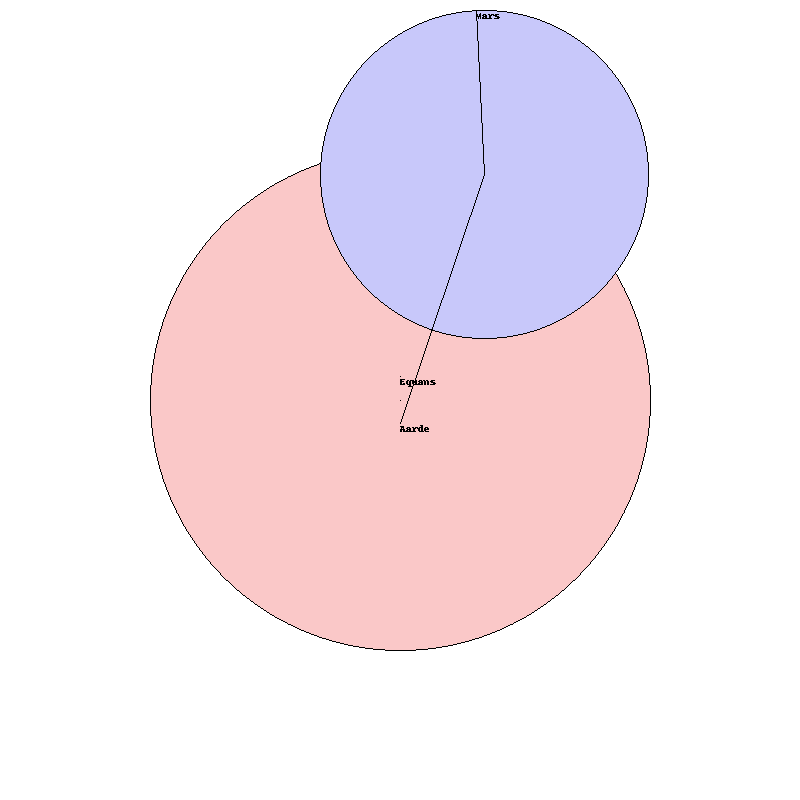
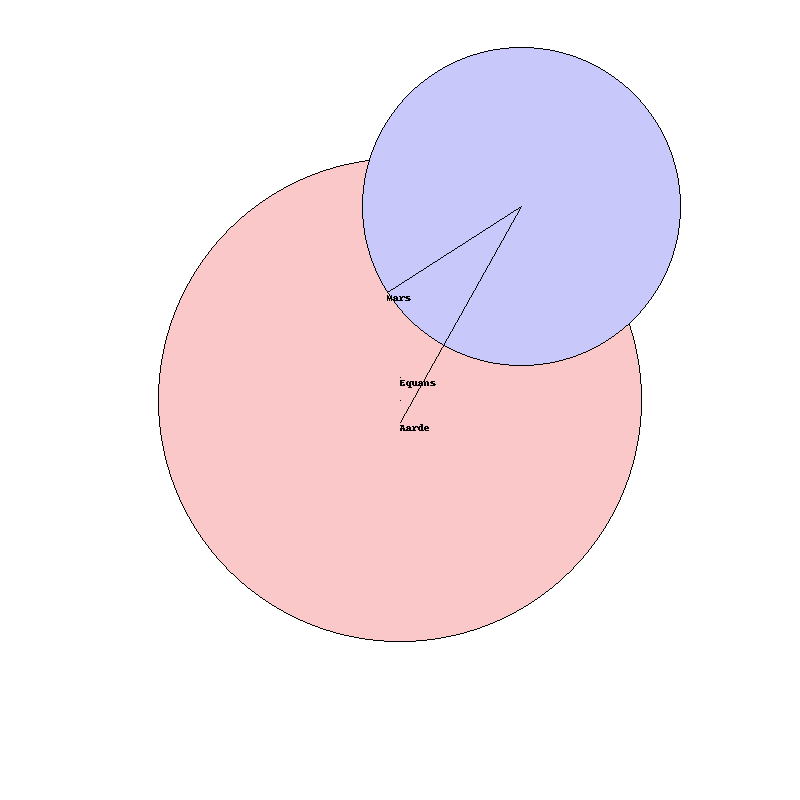
cirkels getekend om te zien hoe de baan opgebouwd wordt

diff --git a/cirkels.py b/cirkels.py
@@ -1,10 +1,6 @@
 import sys, math, time, csv
 from PIL import Image, ImageDraw, ImageFont
 from datetime import datetime, timezone
-# from skyfield import almanac
-# from skyfield.api import load, wgs84, N, E, W, S
-# from skyfield.api import position_of_radec, load_constellation_map
-# from skyfield.framelib import ecliptic_frame
 
 # Verschillende konstanten voor jaar en maand
 tropischjaar  = 365.2421896 # Kalenderjaar. Geen constante, dit is de 2000.0 waarde
@@ -19,20 +15,21 @@ lengte020 = 4.9 # Graden oosterlengte
 tweepi    = 6.28
 
 # Lees baanelementen uit csv
-planeet = {}
-ip = 0
+planeet = []
+element = {}
 with open('orbits.csv', 'r') as orbitfile:
     csv_reader = csv.DictReader(orbitfile)
     for orbit in csv_reader:
-       planeet[ip] = {}
-       planeet[ip]['naam'] = orbit['naam'].strip()
-       planeet[ip]['a'] = float(orbit['a'])
-       planeet[ip]['e'] = float(orbit['e'])
-       planeet[ip]['T'] = float(orbit['T'])
-       planeet[ip]['lengteperi'] = float(orbit['l_peri'])
-       planeet[ip]['epochperi']  = float(orbit['t_peri'])
-       ip += 1
-print(ip,' planeten in orbit file')
+        naam = orbit['naam'].strip()
+        planeet.append(naam)
+        element[naam] = {}
+        element[naam]['a'] = float(orbit['a'])
+        element[naam]['b'] = float(orbit['b'])
+        element[naam]['e'] = float(orbit['e'])
+        element[naam]['T'] = float(orbit['T'])
+        element[naam]['lengteperi'] = float(orbit['l_peri'])
+        element[naam]['epochperi']  = float(orbit['t_peri'])
+
        
 # Epicykel geeft de ware anomalie, de hoek van een planeet ten opzichte van het
 # lentepunt gezien vanuit de Aarde, berekend met Ptolemaeaus epicykels.
@@ -40,8 +37,10 @@ print(ip,' planeten in orbit file')
 # De deferent is het middelpunt van de cirkelbaan
 # De planeet beweegt met constante hoeksnelheid rond de equans
 # Aarde, deferent en equans liggen op 1 lijn.
-def epicykel(tijd,omlooptijd,straal,excentriciteit,lengteperiapsis,tijdperiapsis):
-    schaal = 250 / straal  
+def epicykel(tijd,omlooptijd,a,b,excentriciteit,lengteperiapsis,tijdperiapsis,epicykelstraal,epicykellengte):
+    straal = (a+b)/2.0
+    # straalaarde = (149476014.0805783 + 149454602.05227306) / 2.0
+    schaal = 400 / (straal+epicykelstraal) 
     deferent = straal * excentriciteit
     equans = 2 * deferent
     # Teken de deferent, equans en middelpunt
@@ -61,18 +60,18 @@ def epicykel(tijd,omlooptijd,straal,excentriciteit,lengteperiapsis,tijdperiapsis
     print ('   x',defx)
     print ('   y',defy)
     # De epicykel, de cirkel op de cirkel
-    epianomalie = (tijd)/siderischjaar*tweepi % tweepi
-    print ('   anomalie van de epicykel',epianomalie/tweepi*180.0)
-    straalaarde = (149476014.0805783 + 149454602.05227306) / 2.0
-    planeetx = defx + straalaarde * math.cos(epianomalie)
-    planeety = defy + straalaarde * math.sin(epianomalie)
+    # epianomalie = (tijd)/siderischjaar*tweepi % tweepi
+    # print ('   anomalie van de epicykel',epianomalie/tweepi*180.0)
+    # straalaarde = (149476014.0805783 + 149454602.05227306) / 2.0
+    planeetx = defx + epicykelstraal * math.cos(epicykellengte/360.0*tweepi)
+    planeety = defy + epicykelstraal * math.sin(epicykellengte/360.0*tweepi)
     # Hoek vanuit de Aarde
     wareanomalie = math.atan2(defy, defx) / tweepi * 180.0
     print ('   ware anomalie',wareanomalie)
     ecliptischelengte = wareanomalie + lengteperiapsis
     print ('   ecliptische lengte',ecliptischelengte)
-    draw.ellipse([(middenx+(defx-straalaarde)*schaal,middeny+(defy-straalaarde)*schaal),
-                  (middenx+(defx+straalaarde)*schaal,middeny+(defy+straalaarde)*schaal)],
+    draw.ellipse([(middenx+(defx-epicykelstraal)*schaal,middeny+(defy-epicykelstraal)*schaal),
+                  (middenx+(defx+epicykelstraal)*schaal,middeny+(defy+epicykelstraal)*schaal)],
                    outline=(0,0,0),fill=(200,200,250),width=1)
     draw.line([(middenx,middeny+(deferent*schaal)),
                (middenx+defx*schaal,middeny+defy*schaal)],fill=(0,0,0),width=1)
@@ -82,12 +81,29 @@ def epicykel(tijd,omlooptijd,straal,excentriciteit,lengteperiapsis,tijdperiapsis
     draw.text((middenx+planeetx*schaal,middeny+planeety*schaal),naam,anchor='lm',fill=(0,0,0))
     return ecliptischelengte
 
+# De Zon en de Maan beschijven een cirkelbaan om de Aarde
+# De equans wordt hier buiten beschouwing gelaten
+def cirkelbaan(tijd,omlooptijd,a,b,excentriciteit,lengteperiapsis,tijdperiapsis):
+    straal = (a+b)/2.0
+    deferent = straal * excentriciteit
+    # Anomalie gezien van de equans is een lineaire functie van de tijd
+    equansanomalie = (tijd-tijdperiapsis)/omlooptijd*tweepi
+    equansx = straal*math.cos(equansanomalie)-deferent
+    equansy = straal*math.sin(equansanomalie)
+    # Hoek vanuit de Aarde
+    wareanomalie = math.atan2(equansy, equansx)/tweepi*360.0
+    # wareanomalie = ((tijd-tijdperiapsis)/omlooptijd)*360.0
+    print('   ware anmomalie',wareanomalie)
+    ecliptischelengte = (wareanomalie+lengteperiapsis )%360
+    print('   ecliptische lengte',ecliptischelengte)
+    return ecliptischelengte
+
 # Bepaal lokale tijd en lokale sterrentijd, om zomertijd ellende te voorkomen alles vanaf gm
 nu = time.time() / 86400  # nu, in dagen
-juliaansedag = nu + 2440587.45833 # dagen, juliaanse datum
+jd = nu + 2440587.45833 # dagen, juliaanse datum
 tijd  = nu % 1 # Fractie van de dag
 print('Epoch in dagen',nu)
-print('JD', juliaansedag)
+print('JD', jd)
 print('GMT          ', int(24*tijd), int((24*60*tijd)%60), (24*3600*tijd)%60)
 
 # Op 1/1/1970 was GMST 6 40 55 = 6,681944444
@@ -101,34 +117,39 @@ print('Lokale zonnetijd',int(24*lokaletijd), int((24*60*lokaletijd)%60), (24*360
 LMST = ( ( nu + lengte020/360.0 ) * (siderischjaar+1)/siderischjaar + epochsiderisch ) % 1
 print('Lokaal siderisch', int(24*LMST), int((24*60*LMST)%60), (24*3600*LMST)%60)
 
-# De straal van de baan van de Zon moet eigenlijk netjes uit de baanelementen gehaald worden
-straalaarde = (149476014.0805783 + 149454602.05227306) / 2.0
-# Bereken posities van de planeten en teken de sfeer in
-for ip in planeet:
+# Bereken de offset door de Aarde
+epilengte = cirkelbaan(jd,element['Zon']['T'],
+                        element['Zon']['a'],element['Zon']['b'],element['Zon']['e'],
+                        element['Zon']['epochperi'],element['Zon']['lengteperi'])
+epistraal = (element['Zon']['a']+element['Zon']['b'])/2.0
+# Bereken posities van de planeten
+for naam in planeet:
    # Begin met tekenen
    diagram = Image.new("RGB",(800,800), (255,255,255))
    middenx = diagram.width/2
    middeny = diagram.height - diagram.width/2
    draw = ImageDraw.Draw(diagram)
-
+   
    lengte = 0.0
-   # Teken de cirkel met planeet
-   naam = planeet[ip]['naam']
+   print (naam)
          
    if (naam == 'Zon'):
-       # lengte = cirkelbaan(nu,siderischjaar) + LMST*360.0
-       lengte = lokaletijd*360.0-180.0
-       print('Zon ecliptische lengte',lengte)
+       lengte = cirkelbaan(jd,element[naam]['T'],
+                           element[naam]['a'],element[naam]['b'],element[naam]['e'],
+                           element[naam]['lengteperi'],element[naam]['epochperi'])
+       w = 36
    elif (naam == 'Maan'):
-       # lengte = cirkelbaan(nu,synodischemaand) + LMST*360.0 - 180.0
-       print('Maan ecliptisce lengte',lengte)
+       lengte = cirkelbaan(jd,synodischemaand,
+                           element[naam]['a'],element[naam]['b'],element[naam]['e'],
+                           element[naam]['lengteperi'],element[naam]['epochperi'])
+       w = 36
    else:
-       print(naam)
-       lengte = epicykel(juliaansedag,
-                         planeet[ip]['T'],planeet[ip]['a'],
-                         planeet[ip]['e'],planeet[ip]['lengteperi'],
-                         planeet[ip]['epochperi']) + LMST*360.0
+       lengte = epicykel(jd,element[naam]['T'],
+                         element[naam]['a'],element[naam]['b'],element[naam]['e'],
+                         element[naam]['lengteperi'],element[naam]['epochperi'],
+                         epistraal,epilengte)
+       
        filenaam = naam+'.png'
        diagram.save(filenaam)
-       # diagram.show()
+
 

diff --git a/ptolemeus.py b/ptolemeus.py
@@ -129,8 +129,8 @@ def epicykel(tijd,omlooptijd,a,b,excentriciteit,lengteperiapsis,tijdperiapsis,ep
     equansx = straal*math.cos(equansanomalie)-deferent
     equansy = straal*math.sin(equansanomalie)
     # De epicykel. De cirkel op de cirkel. Berekend buiten deze functie
-    equansx = equansx - epicykelstraal*math.cos(epicykellengte/360.0*tweepi)
-    equansy = equansy - epicykelstraal*math.sin(epicykellengte/360.0*tweepi)
+    equansx = equansx + epicykelstraal*math.cos(epicykellengte/360.0*tweepi)
+    equansy = equansy + epicykelstraal*math.sin(epicykellengte/360.0*tweepi)
     # Hoek vanuit de Aarde
     wareanomalie = math.atan2(equansy, equansx)/tweepi*360.0
     print ('   ware anomalie',wareanomalie%360.0)
@@ -195,7 +195,7 @@ r = 38
 teken_aarde(r)
 r += 1
 
-# De straal van de baan van de Zon moet eigenlijk netjes uit de baanelementen gehaald worden
+# Eerst hebben we de lengte en afstand van de Zon van de Aarde nodig
 epilengte = cirkelbaan(jd,element['Zon']['T'],
                         element['Zon']['a'],element['Zon']['b'],element['Zon']['e'],
                         element['Zon']['epochperi'],element['Zon']['lengteperi'])
@@ -206,9 +206,10 @@ for naam in planeet:
    print (naam)
          
    if (naam == 'Zon'):
-       lengte = cirkelbaan(jd,element[naam]['T'],
-                           element[naam]['a'],element[naam]['b'],element[naam]['e'],
-                           element[naam]['lengteperi'],element[naam]['epochperi'])
+       # lengte = cirkelbaan(jd,element[naam]['T'],
+       #                     element[naam]['a'],element[naam]['b'],element[naam]['e'],
+       #                     element[naam]['lengteperi'],element[naam]['epochperi'])
+       lengte = epilengte
        w = 36
    elif (naam == 'Maan'):
        lengte = cirkelbaan(jd,synodischemaand,
